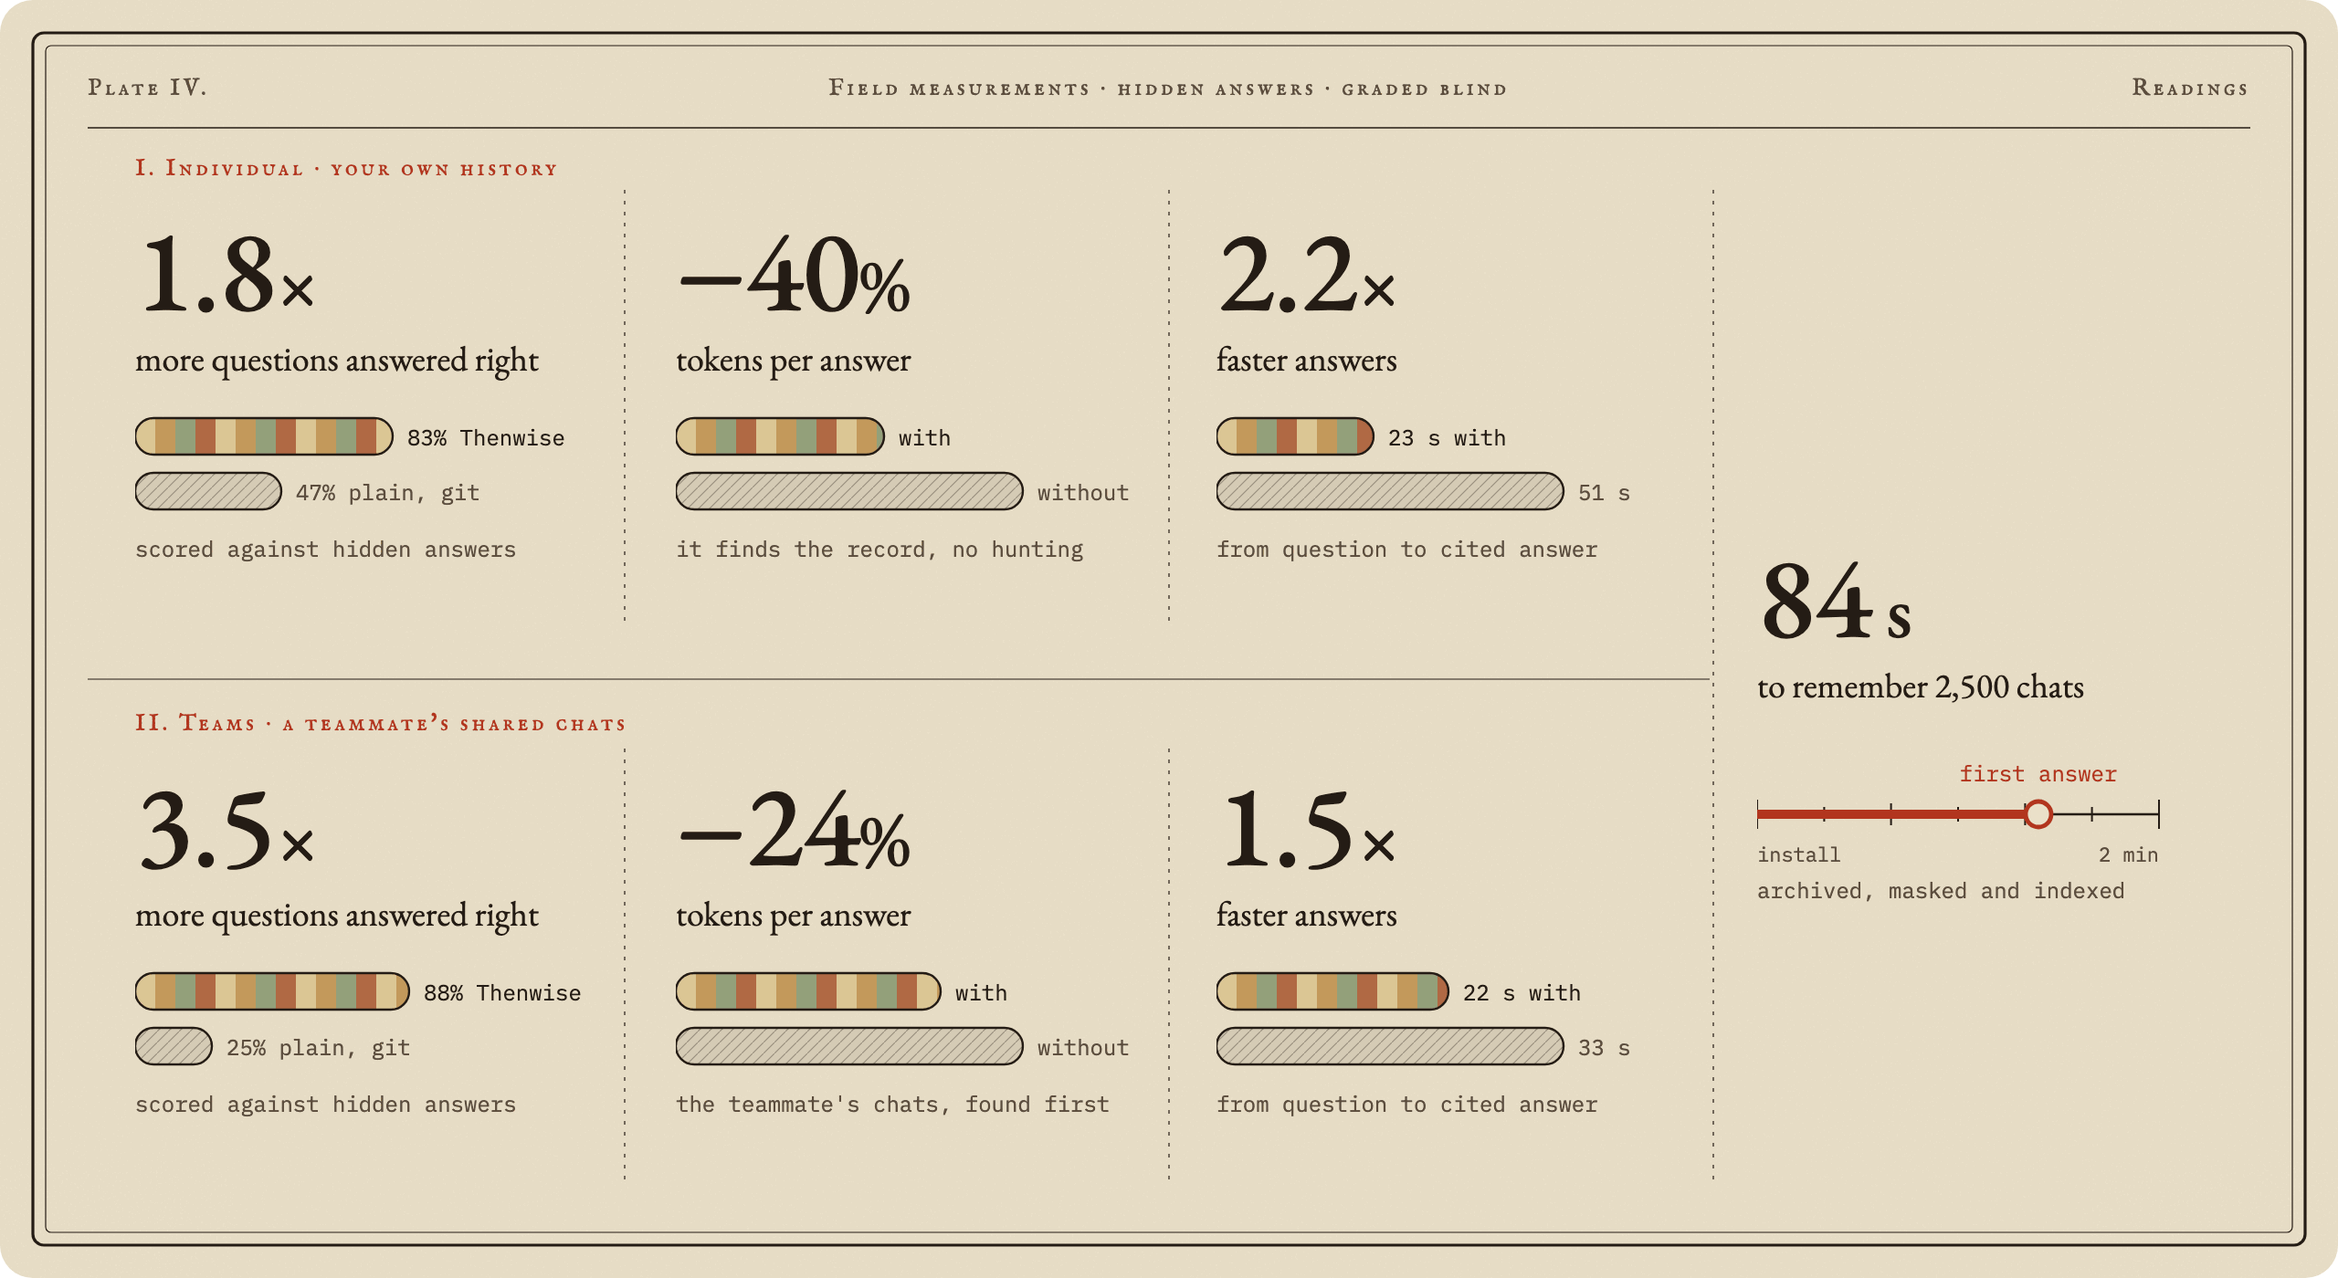
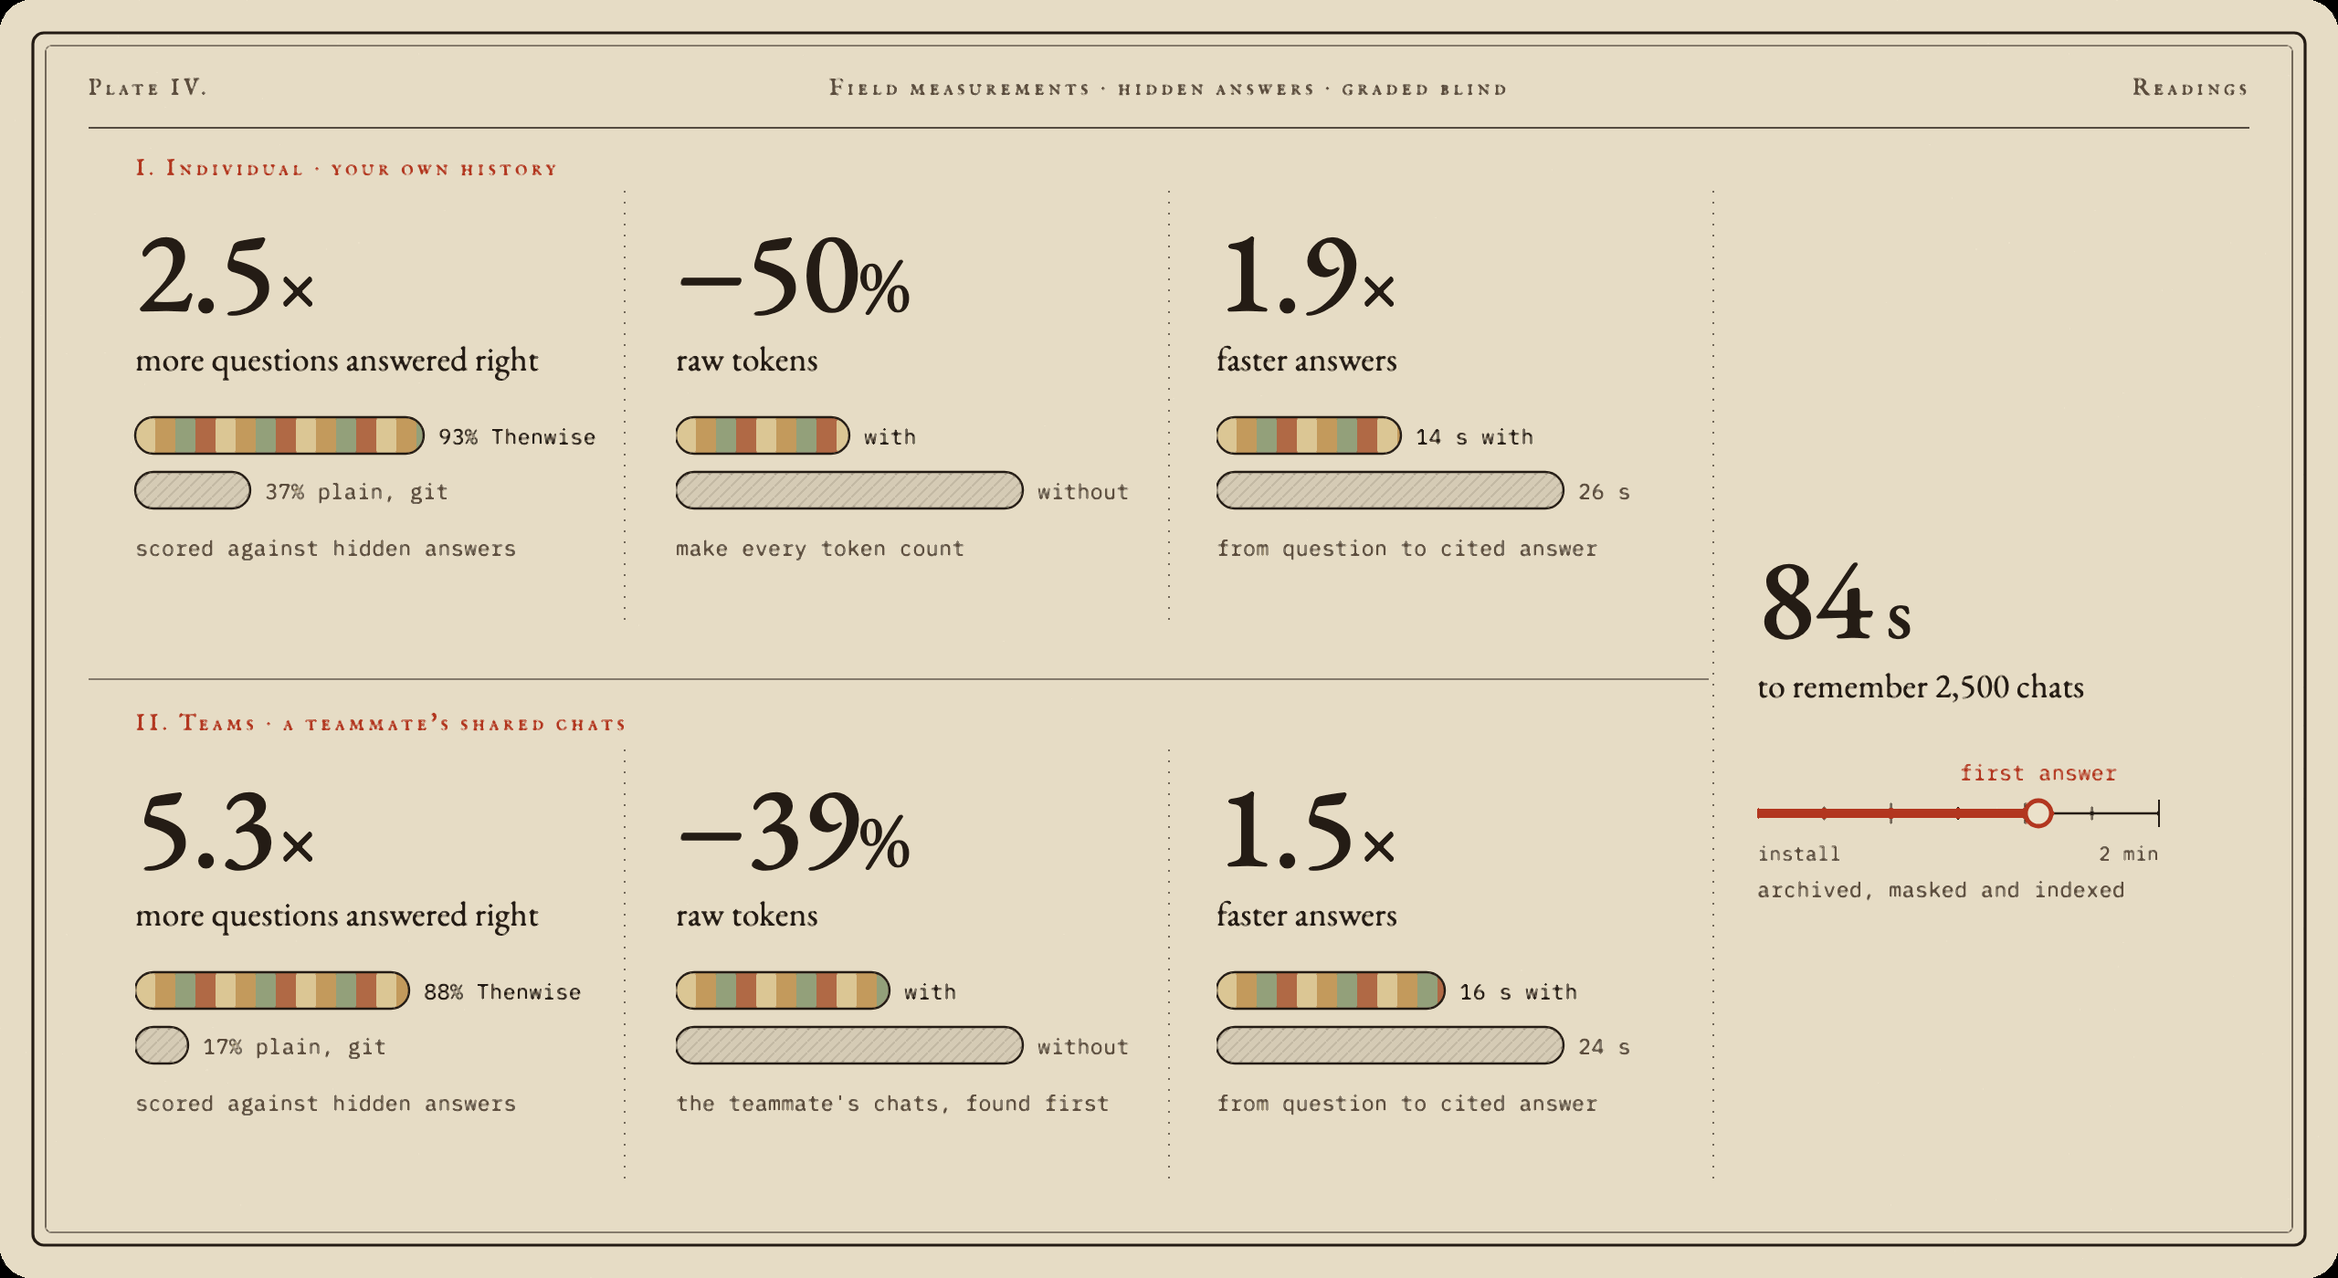
docs: publish the clean eval numbers (#40)
New numbers from rounds where every source was frozen before the
questions were written and an OS sandbox blocked everything else, for
both arms. The README, its results image, `docs/eval.md` and the
changelog all change. `bench/real/run.ts` gains the sandbox option and
stops at a usage limit, and both runners turn the Thenwise plugin off
for plain arms.

diff --git a/bench/real/run.ts b/bench/real/run.ts
@@ -37,9 +37,11 @@ const PLUGIN = process.env.THENWISE_EVAL_ROOT ? join(ROOT, 'plugin') : join(ROOT
 // Each set names the repos and folders its questions come from. They name private projects, so they live outside the repo:
 // { "<set>": { "text": "...", "dirs": ["~/..."] } } in ~/.memory/eval/records.json (or THENWISE_EVAL_RECORDS), with ~ for the home folder.
 const RECORDS: Record<string, { text: string; dirs: string[] }> = JSON.parse(readFileSync(process.env.THENWISE_EVAL_RECORDS ?? join(HOME, '.memory/eval/records.json'), 'utf8').replaceAll('~/', `${HOME}/`))
-const READ_ONLY = ['Read', 'Grep', 'Glob', 'Bash(git log:*)', 'Bash(git show:*)', 'Bash(git -C:*)', 'Bash(ls:*)', ...(arm === 'memory' ? [`Bash(${join(HOME, '.memory/bin/memory-eval')}:*)`] : []), ...(arm === 'plain' || arm === 'plugin' ? ['Bash(gh pr view:*)', 'Bash(gh pr list:*)'] : []), ...(arm === 'plugin' ? ['mcp__plugin_thenwise_thenwise__*'] : [])]
+// A macOS sandbox profile to run every candidate in. Live PRs are off with it: `gh` reads today, past the cutoff.
+const SANDBOX = process.env.THENWISE_EVAL_SANDBOX
+const READ_ONLY = ['Read', 'Grep', 'Glob', 'Bash(git log:*)', 'Bash(git show:*)', 'Bash(git -C:*)', 'Bash(ls:*)', ...(arm === 'memory' ? [`Bash(${join(HOME, '.memory/bin/memory-eval')}:*)`] : []), ...((arm === 'plain' || arm === 'plugin') && !SANDBOX ? ['Bash(gh pr view:*)', 'Bash(gh pr list:*)'] : []), ...(arm === 'plugin' ? ['mcp__plugin_thenwise_thenwise__*'] : [])]
 // Gate arms load no plugins and no carapace; the plugin arm adds Thenwise only.
-const OFF_PLUGINS = Object.fromEntries(['swift-lsp@claude-plugins-official', 'cloudflare@cloudflare', 'ponytail@ponytail', 'impeccable@impeccable', 'typesafe@typesafe-ai', 'rasterless@dheeraj-skills'].map((p) => [p, false]))
+const OFF_PLUGINS = Object.fromEntries(['swift-lsp@claude-plugins-official', 'cloudflare@cloudflare', 'ponytail@ponytail', 'impeccable@impeccable', 'typesafe@typesafe-ai', 'rasterless@dheeraj-skills', 'thenwise@thenwise'].map((p) => [p, false]))
 export const MEMORY_BIN = join(HOME, '.memory/bin/memory-eval')
 const MEMORY_HELP = `# Project memory: use it first
 A memory of this project's whole history (chat turns, compaction summaries, PRs, commits, vault notes, rules) is searchable with one command. Use it FIRST for any question about why something is the way it is, what was tried, when something changed, what was current at a date, or how two things connect; then check details in the files if needed. Each result shows its source and date.
@@ -97,7 +99,7 @@ function ask(q: RealQuestion): Promise<Answer> {
     // The vault copy is the plugin arm's alone: plain may not find it by searching the home folder.
     const vaultCopy = arm === 'plain' && process.env.THENWISE_EVAL_VAULT ? [`Read(${process.env.THENWISE_EVAL_VAULT.replace(HOME, '~')}/**)`] : []
     const deny = [...NO_PEEKING, ...(gate ? ['Read(~/.memory/**)', 'Read(~/Library/Mobile Documents/**)', 'Read(~/carapace-crew/**)', ...vaultCopy] : [])]
-    const child = spawn('claude', ['-p', ...(gate ? [] : [PROMPT(q)]), '--output-format', 'json', '--model', model, ...extra, '--allowedTools', ...READ_ONLY,
+    const child = spawn(SANDBOX ? 'sandbox-exec' : 'claude', [...(SANDBOX ? ['-f', SANDBOX, 'claude'] : []), '-p', ...(gate ? [] : [PROMPT(q)]), '--output-format', 'json', '--model', model, ...extra, '--allowedTools', ...READ_ONLY,
       '--disallowedTools', 'Edit', 'Write', 'NotebookEdit', 'WebSearch', 'WebFetch', 'Agent', ...deny], { cwd, stdio: [gate ? 'pipe' : 'ignore', 'pipe', 'pipe'], env: { ...NO_CARAPACE, ...(arm === 'plugin' ? { THENWISE_HOME: join(GATE, 'store'), THENWISE_SYNC: 'off' } : {}) } })
     if (gate) child.stdin!.end(PROMPT(q))
     let stdout = ''
@@ -112,11 +114,10 @@ function ask(q: RealQuestion): Promise<Answer> {
     child.on('close', () => {
       clearTimeout(timer)
       if (missing) return
-      // The usage limit answers with a notice instead of an answer: wait for the reset and ask again.
+      // The usage limit answers with a notice instead of an answer: stop, and a rerun picks up where this one ended.
       if (/hit your (session|usage|weekly) limit/i.test(stdout)) {
-        missing = true
-        setTimeout(() => resolve(ask(q)), 5 * 60 * 1000)
-        return
+        console.error('USAGE_LIMIT: stopping')
+        process.exit(75)
       }
       let r: { result?: string; usage?: Record<string, number>; total_cost_usd?: number; num_turns?: number } = {}
       try {

diff --git a/bench/real/guard.ts b/bench/real/guard.ts
@@ -44,7 +44,7 @@ const PLUGIN = ROOT ? join(ROOT, 'plugin') : join(GATE, 'plugin')
 const { CLAUDE_CODE_PLUGIN_DIRS: _carapace, ...NO_CARAPACE } = process.env
 const E4 = arm === 'plain' || arm === 'plugin'
 const TOOLS = ['Read', 'Grep', 'Glob', 'Edit', 'Write', 'Bash(git:*)', 'Bash(ls:*)', 'Bash(node:*)', 'Bash(npm test:*)', 'Bash(npm run check:*)', ...(arm === 'plugin' ? ['mcp__plugin_thenwise_thenwise__*'] : [])]
-const OFF_PLUGINS = Object.fromEntries(['swift-lsp@claude-plugins-official', 'cloudflare@cloudflare', 'ponytail@ponytail', 'impeccable@impeccable', 'typesafe@typesafe-ai', 'rasterless@dheeraj-skills'].map((p) => [p, false]))
+const OFF_PLUGINS = Object.fromEntries(['swift-lsp@claude-plugins-official', 'cloudflare@cloudflare', 'ponytail@ponytail', 'impeccable@impeccable', 'typesafe@typesafe-ai', 'rasterless@dheeraj-skills', 'thenwise@thenwise'].map((p) => [p, false]))
 const POINTER = `Project records you may read: the Obsidian vault of notes at ${CORPUS}/vault/ and the carapace pull requests at ${CORPUS}/prs.json.`
 // Claude Code keys a project's auto memory by its folder path, with / . and _ turned into -.
 const memoryDirFor = (dir: string) => join(HOME, '.claude/projects', dir.replace(/[/._]/g, '-'), 'memory')

diff --git a/README.md b/README.md
@@ -25,7 +25,7 @@
 /plugin install thenwise@thenwise
 ```
 
-Graded blind on hidden answers: **83%** right against 47% for plain Claude Code on your own history, and **88%** against 25% from a teammate's shared chats. [How we measured](#measured-with-the-answers-hidden).
+Graded blind on hidden answers: **93%** right against 37% for plain Claude Code on your own history, and **88%** against 17% from a teammate's shared chats. [How we measured](#measured-with-the-answers-hidden).
 
 Your project lays down history every day. A chat settles a question. A commit lands. An idea fails on a Tuesday and nobody writes it down. Weeks later the reason is buried, and Claude starts from zero.
 
@@ -61,9 +61,9 @@ Ask Claude to change a file with a dead end in its past, and it checks before it
 
 ## Measured, with the answers hidden
 
-Sounds good. Does it hold up? We tested it the hard way.
+Make every token count. We tested it the hard way.
 
-<p align="center"><img src="assets/readme/measurements.png" width="100%" alt="Field measurements with hidden answers, graded blind. Individual, on your own history: 1.8 times more questions answered right (83% with Thenwise, 47% for plain Claude Code reading git), 40% fewer tokens per answer, 2.2 times faster answers (23 seconds against 51). Teams, from a teammate's shared chats: 3.5 times more questions answered right (88% against 25%), 24% fewer tokens, 1.5 times faster (22 seconds against 33). And 2,500 chats remembered 84 seconds after install."></p>
+<p align="center"><img src="assets/readme/measurements.png" width="100%" alt="Field measurements with hidden answers, graded blind. Individual, on your own history: 2.5 times more questions answered right (93% with Thenwise, 37% for plain Claude Code reading git), half the raw tokens, 1.9 times faster answers (14 seconds against 26). Teams, from a teammate's shared chats: 5.3 times more questions answered right (88% against 17%), 39% fewer raw tokens, 1.5 times faster (16 seconds against 24). And 2,500 chats remembered 84 seconds after install."></p>
 
 Individual: Claude answers about your own history. Teams: a teammate asks about a project they never worked on and answers from its shared chats. In both tests, plain Claude Code could read the repository and its git history. Thenwise runs on its own records: your chats are the core, and git is an add-on that adds commits and pull requests when you have them. [How we measured](docs/eval.md): the questions, the two arms and the blind grading.
 
@@ -102,7 +102,7 @@ Three sources settle into one SQLite store on your disk. Search runs on full tex
 
 ### Fast enough to forget
 
-Hooks answer in about 50 ms and a search takes milliseconds, so Claude never waits on its memory. On your own history, answers came 2.2 times faster and used 40% fewer tokens than plain Claude Code digging through it alone.
+Hooks answer in about 50 ms and a search takes milliseconds, so Claude never waits on its memory. On your own history, answers came 1.9 times faster and used half the raw tokens of plain Claude Code digging through it alone.
 
 ## The toolbelt
 
@@ -183,9 +183,9 @@ Start alone. Add your team when you want to.
 
 **Does it need a model or an API key?** No. No model runs inside Thenwise, so there is no key to add and no extra bill.
 
-**Does it slow Claude down?** No. Hooks take about 50 ms, search takes milliseconds, and in our tests answers arrived 1.5 to 2.2 times faster.
+**Does it slow Claude down?** No. Hooks take about 50 ms, search takes milliseconds, and in our tests answers arrived 1.5 to 1.9 times faster.
 
-**What does it cost in tokens?** Less than going without: 24% to 40% fewer tokens per answer about the past. In a chat that needs no memory, it adds about 1%.
+**What does it cost in tokens?** Less than going without: up to half the raw tokens on questions about the past. In a chat that needs no memory, it adds about 1%.
 
 **How does it fit with CLAUDE.md and Claude's own memory?** They hold your standing rules. Thenwise holds the history: what was decided, what was tried, and what was true on any day. It reads your CLAUDE.md files too.
 

diff --git a/docs/eval.md b/docs/eval.md
@@ -22,8 +22,10 @@ The questions cover what people ask about a project's past:
 
 Both arms are Claude Code with the same model, the same question and a fresh session per question. Tools are read only.
 
-- **Plain Claude Code** reads the repository, its full git history and its pull requests through `gh`. No plugins and no notes.
-- **Thenwise** has the same, plus the Thenwise plugin over a store frozen at a cutoff, so the history it holds is fixed for the whole round.
+- **Plain Claude Code** reads the repository, its full git history and a copy of its pull requests. No plugins and no notes.
+- **Thenwise** has the same, plus the Thenwise plugin over a store frozen at a cutoff, so the history it holds is fixed for the whole round. On your own history it also has the notes.
+
+Everything each arm can read is restored to its exact state at the cutoff, which falls before the questions were written. An operating system sandbox blocks every other file on the machine, for both arms.
 
 For the Teams test, the Thenwise arm is a teammate who never worked on the project and has only what a colleague shared.
 
@@ -37,23 +39,28 @@ A judge model checks each required fact of an answer against the gold answer. It
 
 | | Plain Claude Code | Thenwise |
 | --- | --- | --- |
-| Correct | 47% | **83%** |
-| Tokens per answer | 67,987 | **41,136** (40% fewer) |
-| Seconds per answer | 51 | **23** (2.2 times faster) |
+| Correct | 37% | **93%** |
+| Decoys answered "not recorded" | 4 of 4 | **4 of 4** |
+| Raw tokens, all 30 questions | 7,118,023 | **3,558,854** (50% fewer) |
+| Seconds per answer | 26 | **14** (1.9 times faster) |
+| Reported cost per answer | $0.099 | **$0.095** (4% less) |
 
-Plain's score and the times come from a re-run that kept plain away from leftover copies of our records on the test machine. An earlier round let plain read them, and scored it 63%.
+One run per arm with Thenwise 0.1.25 plus the memory fix in 0.1.26. Raw tokens count every token equally. Most of them are cheap cache reads, and cache writes cost the most, so cost falls by less than tokens. Earlier rounds on this question set scored 83% against 47%, before the frozen copies and the sandbox closed gaps on both sides.
 
-**Teams: a teammate's shared chats** (24 questions, Thenwise 0.1.17)
+**Teams: a teammate's shared chats** (24 questions)
 
 | | Plain Claude Code | Thenwise |
 | --- | --- | --- |
-| Correct | 25% | **88%** |
+| Correct | 17% | **88%** |
 | Decoys answered "not recorded" | 4 of 4 | **4 of 4** |
-| Tokens per answer | 55,045 | **42,030** (24% fewer) |
-| Seconds per answer | 33 | **22** (1.5 times faster) |
+| Raw tokens, all 24 questions | 4,978,244 | **3,060,387** (39% fewer) |
+| Seconds per answer | 24 | **16** (1.5 times faster) |
+| Reported cost, all 24 questions | $2.87 | **$2.58** (10% less) |
+
+One run per arm, with the same frozen copies and sandbox. The teammate's store holds only the 19 chats another member shared through a local team server. An earlier round scored 88% against 25%.
 
 **Install:** 2,500 chats archived, masked and searchable 84 seconds after install.
 
 ## Run it yourself
 
-The harness is in [`bench/real`](../bench/real): `run.ts` asks the questions in fresh `claude -p` sessions for each arm, `judge.ts` grades blind, and `gate.ts` compares two arms. The question sets name private projects, so they live outside the repository; write your own from your history in the same format and point the harness at them.
+The harness is in [`bench/real`](../bench/real): `run.ts` asks the questions in fresh `claude -p` sessions for each arm, `judge.ts` grades blind, and `gate.ts` compares two arms. Set `THENWISE_EVAL_SANDBOX` to a macOS sandbox profile to run each candidate inside it, as these rounds did. The question sets name private projects, so they live outside the repository; write your own from your history in the same format and point the harness at them.

diff --git a/CHANGELOG.md b/CHANGELOG.md
@@ -2,7 +2,26 @@
 
 ## Unreleased
 
+A full rebuild now uses far less memory, and answers hold up in new evals.
+
+**Why this release:** one very long chat could push a full rebuild past 2.5 GB of memory, enough to slow or stop a sync on a smaller machine. Sync should never be the thing you notice.
+
 - Long chats take far less memory: a full rebuild on a real history with a 260 MB chat fell from about 2.6 GB to about 500 MB, and the store it builds is the same. The first sync after updating rewrites older long chats in the archive once, which peaks around 1.8 GB. Their text does not change.
+
+**New evals, graded blind on hidden answers:**
+
+| | Plain Claude Code | Thenwise | Difference |
+| --- | --- | --- | --- |
+| Your own history: correct | 37% | **93%** | 2.5 times more |
+| Your own history: raw tokens | 7.1 million | **3.6 million** | 50% fewer |
+| Your own history: seconds per answer | 26 | **14** | 1.9 times faster |
+| A teammate's shared chats: correct | 17% | **88%** | 5.3 times more |
+| A teammate's shared chats: raw tokens | 5.0 million | **3.1 million** | 39% fewer |
+| A teammate's shared chats: seconds per answer | 24 | **16** | 1.5 times faster |
+
+Every source was frozen before the questions were written, and a sandbox blocked everything else on the machine. On your own history, this build scored 93% against 87% for 0.1.24, with the same token use. [How we measured](https://github.com/dheerajponnaganti/thenwise/blob/main/docs/eval.md).
+
+**Why these numbers changed:** earlier rounds scored 83% against 47% on your own history, and 88% against 25% on shared chats. Plain fell because it can no longer read live repositories, live pull requests or anything written after the questions: all of that once helped it. Thenwise rose on your own history because its test store now holds every chat and note from before the cutoff, where earlier rounds missed some. Token figures also moved from a weighted count per answer to raw totals, so they don't compare directly with earlier numbers.
 
 ## 0.1.25
 
